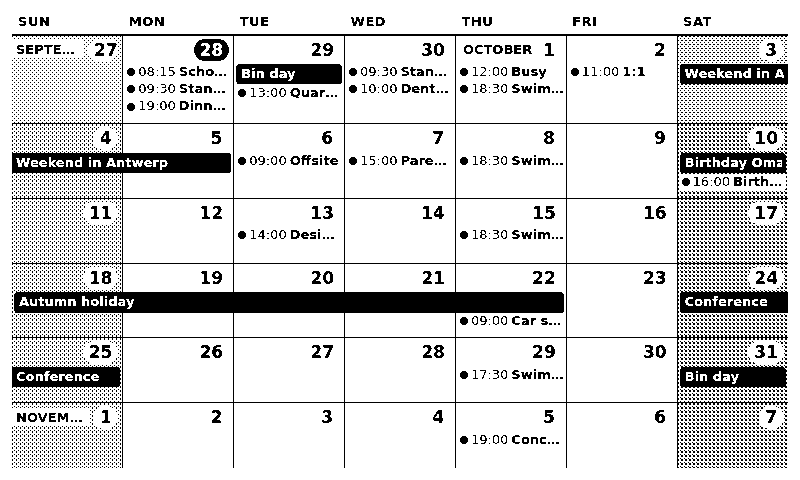
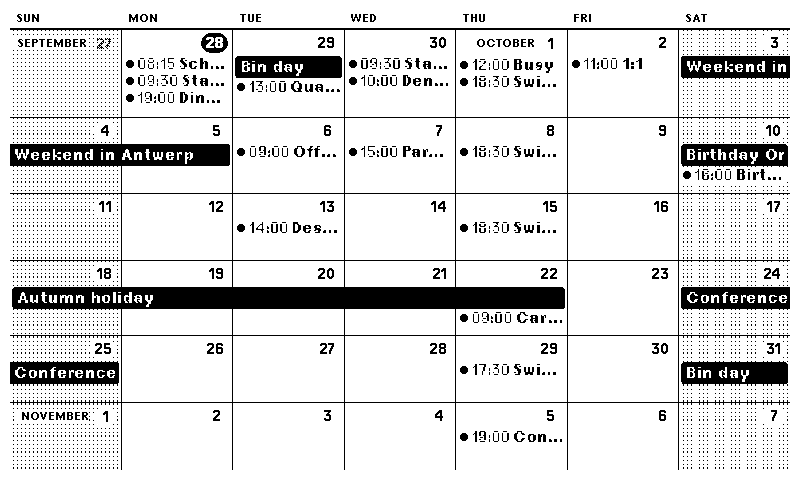
Use the TRMNL framework for fonts, greys and the title bar
LaraPaper renders recipes inside TRMNL framework 3.3.1. Put text--* and
bg--gray-* / text--muted classes on FullCalendar's elements via its
*ClassNames hooks, so text uses the device's font and scale (Inter on the
TRMNL X, pixel fonts on 1-bit) and greys become dither patterns on
1-/2-bit screens. Without this, FullCalendar text fell back to Times New
Roman at unscaled sizes. The grid CSS now sizes with --ui-scale and uses
palette variables.

The framework scales .screen with transform: scale(--pixel-ratio) (1.8
on the TRMNL X), which made FullCalendar's getBoundingClientRect-based
sizing 1.8x too big; rects inside the calendar are now reported in its
own CSS pixels.

"Show month title" becomes the framework title bar with the visible date
range. settings.yml pins framework_version 3.3.1. The preview now matches
LaraPaper's window size, screen classes and framework version, with
FRAMEWORK_DIR for an offline framework copy.

Claude-Session: https://claude.ai/code/session_01NUfQZbey5uqSoJDLA5m21y

diff --git a/README.md b/README.md
@@ -99,13 +99,32 @@ place and keeps your settings.
 | Show event times / end times | yes / yes | End times take up most of a cell, turn them off for longer titles |
 | Show past events | yes | Earlier days of the current week |
 | Highlight today, Shade weekends | yes | |
-| Show month title, week numbers | no | |
-| Greys on 1-bit / 2-bit screens | Adapt styles | `Adapt` swaps greys for a pixel pattern and solid black text. `Dither` keeps the greys and has LaraPaper Floyd–Steinberg dither the whole screen. The TRMNL X (4-bit) is always dithered, so this only matters for 1-bit and 2-bit devices |
+| Show title bar, week numbers | no | The title bar is the framework's, with the recipe name and the visible date range |
+| Greys on 1-bit / 2-bit screens | Adapt styles | `Adapt` uses the framework's greys, which become dither patterns on 1-/2-bit screens. `Dither` paints plain greys and has LaraPaper Floyd–Steinberg dither the whole screen. The TRMNL X (4-bit) is always dithered, so this only matters for 1-bit and 2-bit devices |
 | Locale | `en` | Day/month names, e.g. `nl`, `de` |
 | Ignore events containing / titled exactly | – | Same filters as upstream |
 
 The grid shows as many whole weeks (4–6) as fit, like upstream: busy weeks make
 rows taller, so fewer fit.
+
+## TRMNL framework
+
+LaraPaper renders recipes inside the [TRMNL framework](https://github.com/usetrmnl/trmnl-framework)
+(`framework_version: 3.3.1` in `settings.yml`, LaraPaper's default). The plugin uses it for:
+
+- **Text**: `text--small` / `text--base` on FullCalendar's elements. That's Inter at the
+  device's scale on the TRMNL X, and TRMNL pixel fonts on low-density 1-bit screens.
+- **Greys**: `bg--gray-75` for weekends and `text--muted` for past days. Solid on 4-bit,
+  dither patterns on 1-/2-bit.
+- **Layout**: `view` → `layout` → optional `title_bar`, with spacing from `--ui-scale`.
+
+The calendar grid itself (borders, cells, event blocks) is custom CSS, as upstream,
+because the framework has no calendar component.
+
+On the TRMNL X, LaraPaper renders at 1872×1404 with `screen--v2 screen--scale-xxlarge`.
+The framework lays that out at 1040×780 and scales the screen by 1.8 with a CSS
+`transform`, with a 1.5× UI scale on top. FullCalendar can't measure through a transform,
+so `shared.liquid` corrects its measurements inside the calendar (see the comment there).
 
 ## Local preview
 
@@ -120,9 +139,14 @@ HA_URL=http://homeassistant.local:8123 HA_TOKEN=... \
 
 Options: `--set key=value` (any custom field), `--tz Europe/Amsterdam`,
 `--device og` / `og2` (800×480, 1-bit / 2-bit), `--raw` (skip the grey-level reduction), `--data payload.json`, `--out file.png`. It needs a Chromium;
-set `CHROMIUM_PATH` if Playwright can't find one. The preview renders with
-[liquidjs](https://liquidjs.com) and without the TRMNL framework CSS when trmnl.com
-isn't reachable, so small differences from LaraPaper's output are possible.
+set `CHROMIUM_PATH` if Playwright can't find one.
+
+The preview uses the same window size, screen classes and framework version as
+LaraPaper. It loads the framework from trmnl.com; to work offline, point
+`FRAMEWORK_DIR` at the `public/` folder of a
+[trmnl-framework](https://github.com/usetrmnl/trmnl-framework) checkout at the matching
+tag (`git checkout v3.3.1`). Templates are rendered with [liquidjs](https://liquidjs.com)
+instead of LaraPaper's PHP Liquid, so small differences are possible.
 
 ## Notes
 
@@ -130,8 +154,10 @@ isn't reachable, so small differences from LaraPaper's output are possible.
   which LaraPaper's Liquid engine supports. It fetches 7 days back to 43 days ahead,
   enough for the current week plus 6 weeks.
 - FullCalendar and (for non-English locales) its locale bundle load from jsDelivr
-  when the screen renders, so the LaraPaper container needs internet access. It
-  also loads the TRMNL framework CSS from trmnl.com.
+  when the screen renders, and LaraPaper loads the framework from trmnl.com, so the
+  LaraPaper container needs internet access. LaraPaper can point the framework
+  elsewhere with `TRMNL_BLADE_FRAMEWORK_CSS_URL` / `TRMNL_BLADE_FRAMEWORK_JS_URL`
+  (untested here; the CSS loads its fonts from `/fonts/` on the same host).
 - Like LaraPaper, the preview reduces the screenshot to the device's grey levels. 4-bit
   is always dithered. 1-bit and 2-bit are dithered only when the page contains
   `<img class="image-dither">`, which is what the `Dither` setting adds.

diff --git a/UPSTREAM.md b/UPSTREAM.md
@@ -33,8 +33,13 @@ Forked from [usetrmnl/plugins](https://github.com/usetrmnl/plugins), `lib/calend
 - **FullCalendar**: the open-source 6.1 build from jsDelivr instead of the private
   build at trmnl.com. No `schedulerLicenseKey`, since dayGrid doesn't need one.
 - **Styles**: upstream links `plugins/calendars` and `plugins/calendars_full_month`
-  stylesheets that aren't published. The CSS in `shared.liquid` is written from scratch
-  for grayscale e-ink.
+  stylesheets that aren't published. Here fonts, text sizes and greys come from TRMNL
+  framework classes put on FullCalendar's elements through its `*ClassNames` hooks. The
+  grid CSS in `shared.liquid` is written from scratch and sized with `--ui-scale`.
+- **Transform fix**: `getBoundingClientRect()` is corrected inside the calendar, so
+  FullCalendar sizes correctly under the framework's `transform: scale(--pixel-ratio)`.
+- **Title bar**: the framework's `title_bar` with the visible date range replaces
+  FullCalendar's `headerToolbar` (`month_header`).
 - **Removed**: time-grid helpers (`trmnlAllDaySlotAuto`, `trmnlSlotBoundsAuto`, the
   week-view now indicator, `dayHeaders`), the colour options (`colorize_events`,
   `palette_colors`, `adaptiveEventStroke`), because HA calendars have no colours, and the
